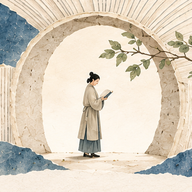
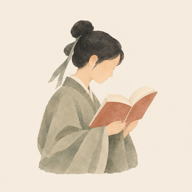
fix: One Books 卡片图标换成读书人插画

diff --git a/index.html b/index.html
@@ -226,7 +226,7 @@ html:not(.js) .hero{height:auto;display:block}
   -->
   <ul class="grid" id="list">
     <li class="work"><img src="bedtime-games/art/icon-192.png?v=20260930" alt=""><div><h3 class="name d"><span lang="zh-Hans">Nighty · 晚安游戏机</span><span lang="en">Nighty</span></h3><div class="meta"><span class="tag">iOS App</span></div></div><p><span lang="zh-Hans">睡前的像素小卡带，玩一会儿就该睡啦。</span><span lang="en">Little pixel cartridges for bedtime. Play a bit, then off to sleep.</span></p><div class="links"><a class="site" href="bedtime-games/"><svg viewBox="0 0 16 16" aria-hidden="true"><path fill="none" stroke="currentColor" stroke-width="1.6" d="M8 1.5a6.5 6.5 0 1 0 0 13 6.5 6.5 0 0 0 0-13Zm-6.5 6.5h13M8 1.5c2 2 2.6 4.3 2.6 6.5S10 12.5 8 14.5M8 1.5C6 3.5 5.4 5.8 5.4 8S6 12.5 8 14.5"/></svg><span lang="zh-Hans">看网站</span><span lang="en">Website</span></a><a class="story" href="bedtime-games/making-of/"><svg viewBox="0 0 16 16" aria-hidden="true"><path fill="none" stroke="currentColor" stroke-width="1.6" d="M3 2.5h7.5L13 5v8.5H3Zm2.5 4h5m-5 2.5h5m-5 2.5h3"/></svg><span lang="zh-Hans">看复盘</span><span lang="en">Making-of</span></a></div></li>
-    <li class="work"><img src="onebooks/art/icon-192.png?v=20261105b" alt=""><div><h3 class="name d"><span lang="zh-Hans">One Books · 译本书架</span><span lang="en">One Books</span></h3><div class="meta"><span class="tag">Web App</span></div></div><p><span lang="zh-Hans">AI 译的科普书，装进给家人的小书架。</span><span lang="en">Science books translated by AI, on a little shelf for my family.</span></p><div class="links"><a class="site" href="https://onebooks.cc/"><svg viewBox="0 0 16 16" aria-hidden="true"><path fill="none" stroke="currentColor" stroke-width="1.6" d="M8 1.5a6.5 6.5 0 1 0 0 13 6.5 6.5 0 0 0 0-13Zm-6.5 6.5h13M8 1.5c2 2 2.6 4.3 2.6 6.5S10 12.5 8 14.5M8 1.5C6 3.5 5.4 5.8 5.4 8S6 12.5 8 14.5"/></svg><span lang="zh-Hans">看网站</span><span lang="en">Website</span></a><a class="code" href="https://github.com/ccccjone/translator-en2cn-skill" aria-label="GitHub 代码 / Code on GitHub" title="GitHub 代码 / Code on GitHub"><svg aria-hidden="true" viewBox="0 0 24 24" fill="none" stroke="currentColor" stroke-width="1.9" stroke-linecap="round" stroke-linejoin="round"><path d="M6.3 15.5C3.7 14.6 3.1 12.3 3.4 10.2c.2-1.2.8-2.1 1.5-2.7-.3-1.3-.2-2.6.4-3.8 1.3.1 2.5.8 3.5 1.7 2.1-.6 4.4-.6 6.5.1 1-1 2.2-1.7 3.5-1.6.6 1.2.7 2.5.3 3.7.8.7 1.4 1.8 1.5 3 .2 2.2-.6 4.3-3 5.1"/><path d="M9.3 16.1c-.7.6-.8 1.5-.7 2.5l.1 2.7M14.8 16.2c.7.6.8 1.5.7 2.6l-.1 2.5"/><path d="M8.6 19c-2.2.7-3.5.2-4.3-1.1-.4-.6-.9-1-1.5-1.1"/><path d="M9.3 11.1v.6M14.7 11.1v.6"/></svg></a></div></li>
+    <li class="work"><img src="onebooks/art/icon-192.png?v=20261106" alt=""><div><h3 class="name d"><span lang="zh-Hans">One Books · 译本书架</span><span lang="en">One Books</span></h3><div class="meta"><span class="tag">Web App</span></div></div><p><span lang="zh-Hans">AI 译的科普书，装进给家人的小书架。</span><span lang="en">Science books translated by AI, on a little shelf for my family.</span></p><div class="links"><a class="site" href="https://onebooks.cc/"><svg viewBox="0 0 16 16" aria-hidden="true"><path fill="none" stroke="currentColor" stroke-width="1.6" d="M8 1.5a6.5 6.5 0 1 0 0 13 6.5 6.5 0 0 0 0-13Zm-6.5 6.5h13M8 1.5c2 2 2.6 4.3 2.6 6.5S10 12.5 8 14.5M8 1.5C6 3.5 5.4 5.8 5.4 8S6 12.5 8 14.5"/></svg><span lang="zh-Hans">看网站</span><span lang="en">Website</span></a><a class="code" href="https://github.com/ccccjone/translator-en2cn-skill" aria-label="GitHub 代码 / Code on GitHub" title="GitHub 代码 / Code on GitHub"><svg aria-hidden="true" viewBox="0 0 24 24" fill="none" stroke="currentColor" stroke-width="1.9" stroke-linecap="round" stroke-linejoin="round"><path d="M6.3 15.5C3.7 14.6 3.1 12.3 3.4 10.2c.2-1.2.8-2.1 1.5-2.7-.3-1.3-.2-2.6.4-3.8 1.3.1 2.5.8 3.5 1.7 2.1-.6 4.4-.6 6.5.1 1-1 2.2-1.7 3.5-1.6.6 1.2.7 2.5.3 3.7.8.7 1.4 1.8 1.5 3 .2 2.2-.6 4.3-3 5.1"/><path d="M9.3 16.1c-.7.6-.8 1.5-.7 2.5l.1 2.7M14.8 16.2c.7.6.8 1.5.7 2.6l-.1 2.5"/><path d="M8.6 19c-2.2.7-3.5.2-4.3-1.1-.4-.6-.9-1-1.5-1.1"/><path d="M9.3 11.1v.6M14.7 11.1v.6"/></svg></a></div></li>
   </ul>
   <footer><span>© 2026 Aria</span><a href="https://github.com/ccccjone">ccccjone</a></footer>
 </div></section>
